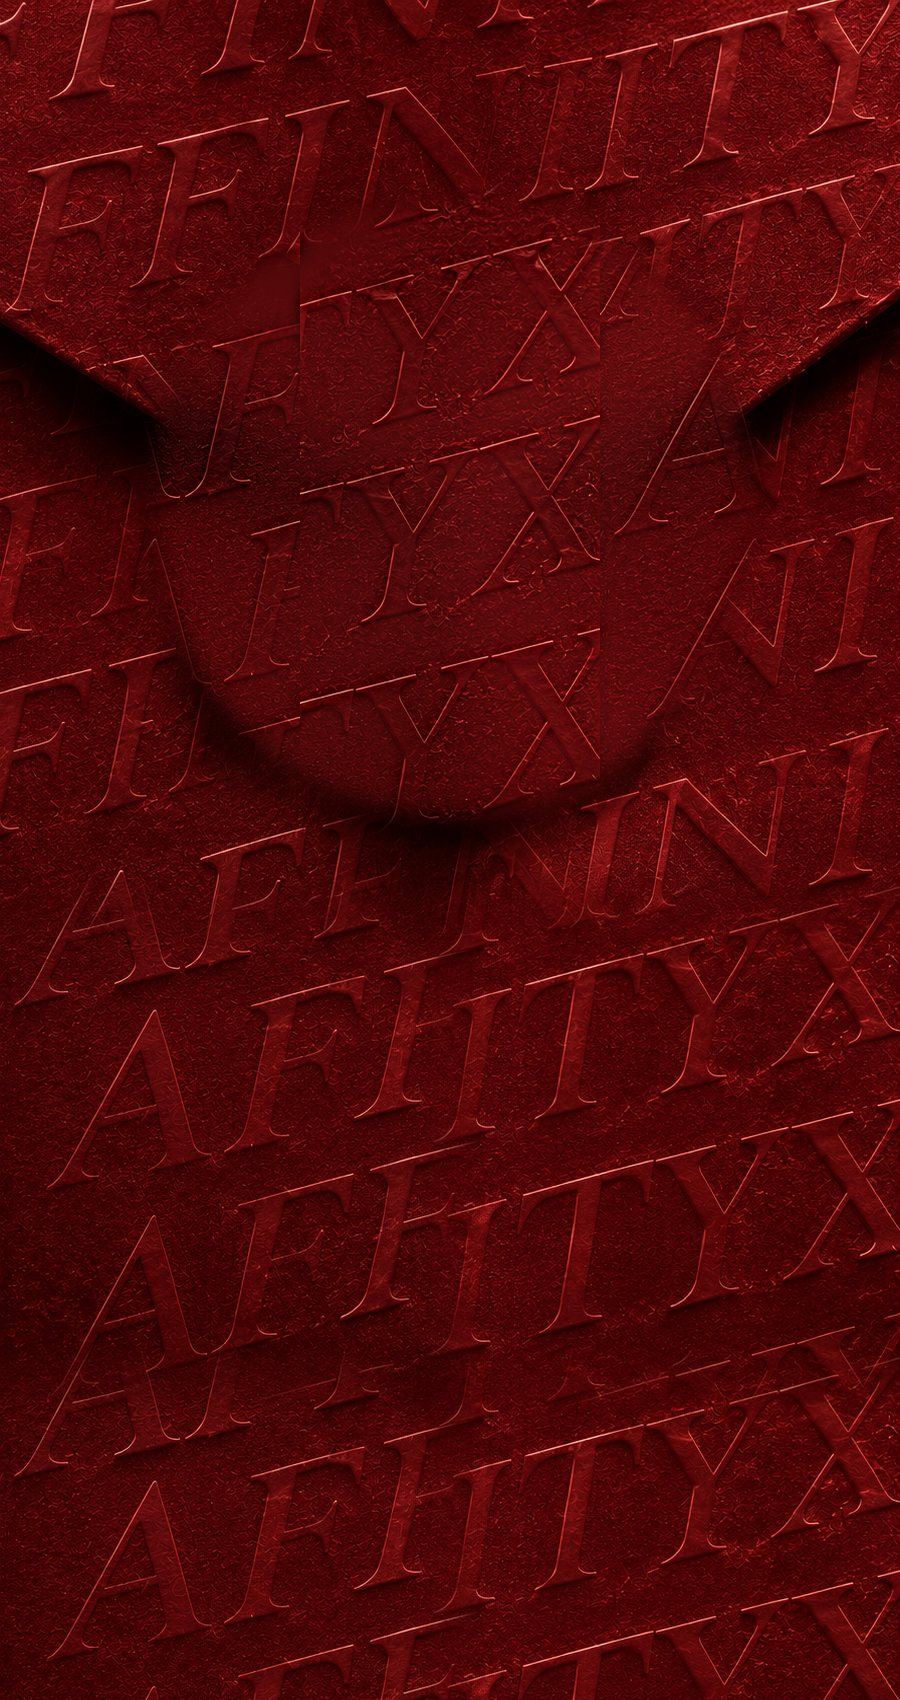
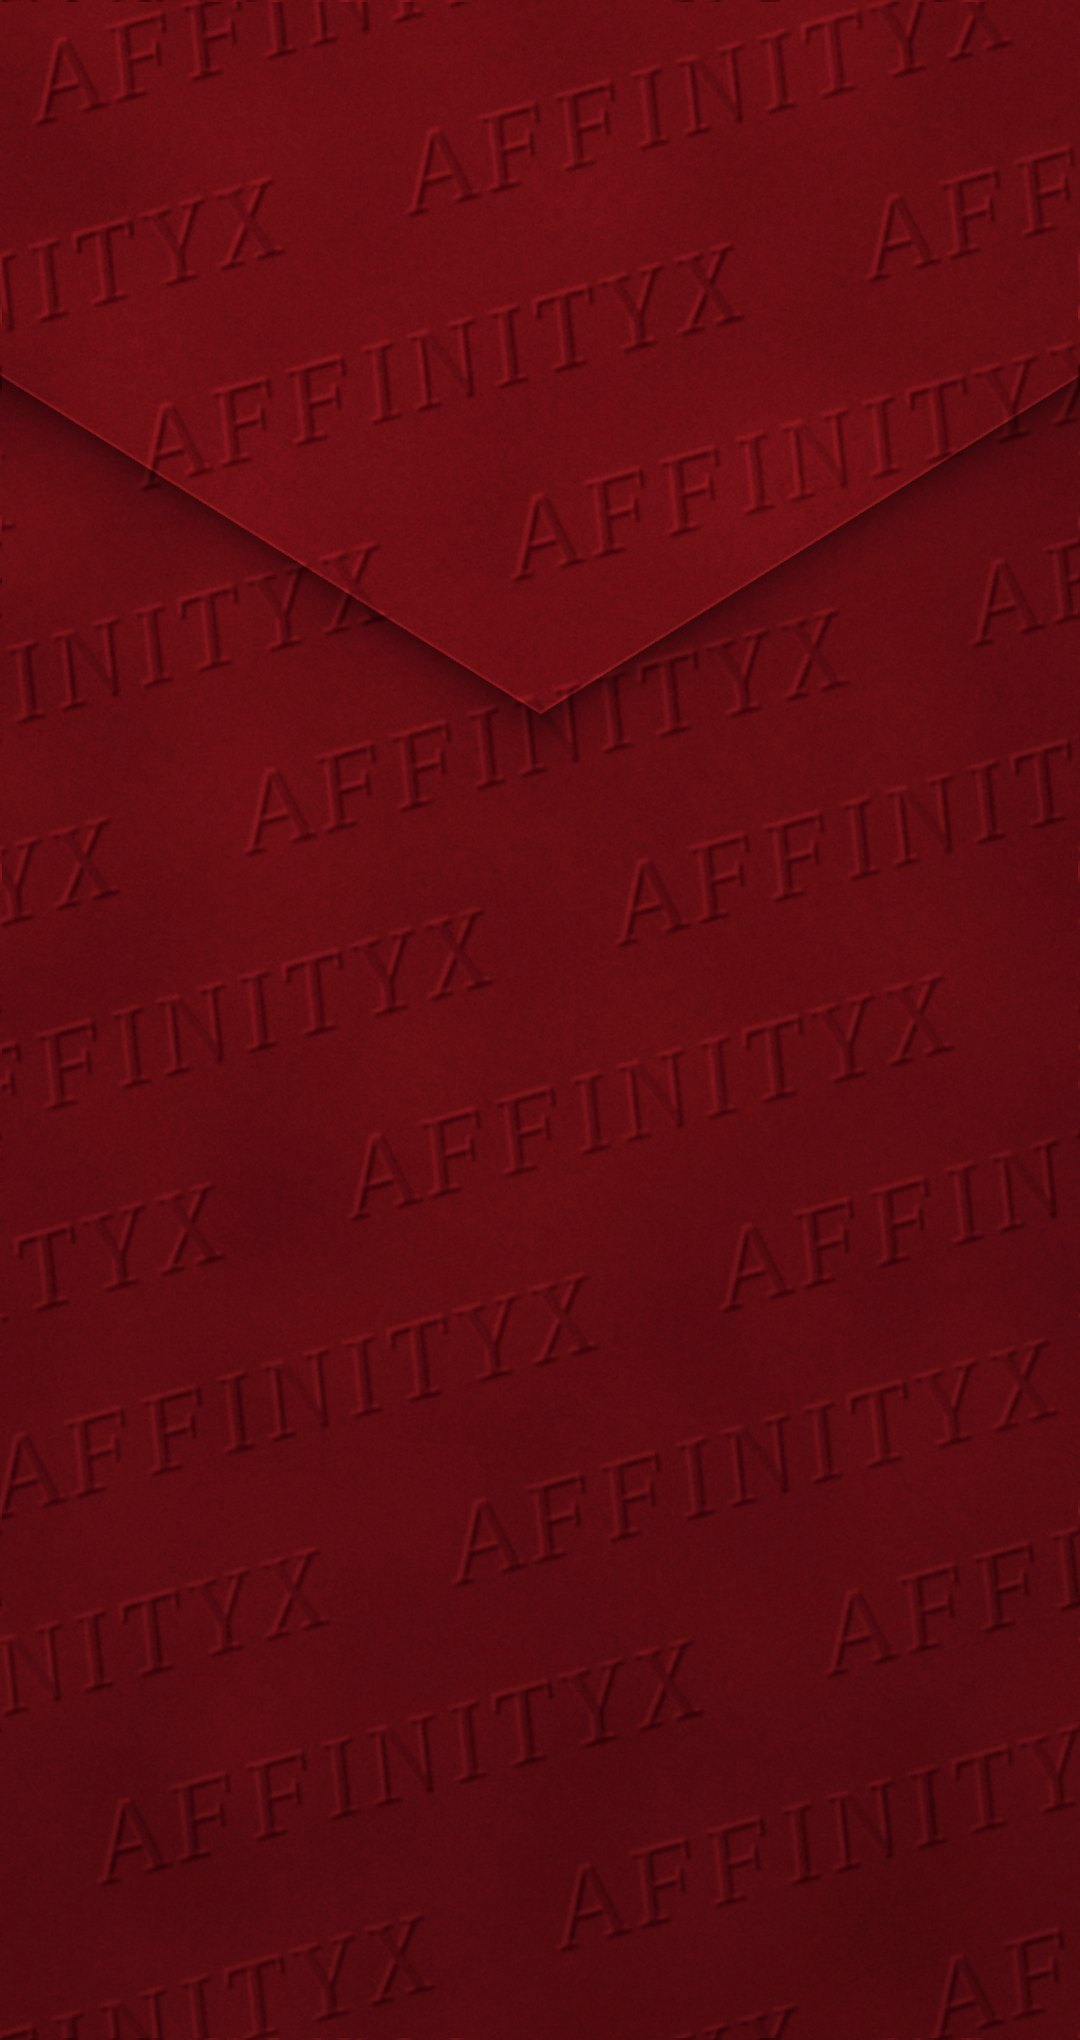
GOAT invite: smaller matte wax seal, neater envelope pattern, opening sound
Claude-Session: https://claude.ai/code/session_01N5pocwK2h9CPQ4y82uA8dz

diff --git a/public/invite/affinityx-goat/index.html b/public/invite/affinityx-goat/index.html
@@ -214,13 +214,13 @@ ol.steps li.key{color:var(--gold-hi)}
 .envx-card.glow::after{opacity:1}
 .envx-card img{backface-visibility:hidden}
 .opener.gone{display:none}
-.envx{position:absolute;left:50%;top:0;width:max(100vw,52.94dvh);aspect-ratio:900/1700;transform:translateX(-50%);will-change:transform}
+.envx{position:absolute;left:50%;top:0;width:max(100vw,52.94dvh);aspect-ratio:1080/2040;transform:translateX(-50%);will-change:transform}
 .envx-body,.envx-flap{position:absolute;inset:0;background:url(env-portrait.jpg) center/100% 100% no-repeat}
-.envx-body{clip-path:polygon(0 18.39%,54.67% 35.65%,100% 16.72%,100% 100%,0 100%);will-change:transform,opacity}
-.envx-pocket{position:absolute;inset:0;clip-path:polygon(0 0,0 18.39%,54.67% 35.65%,100% 16.72%,100% 0);background:linear-gradient(180deg,#14040a,#2a0811);transition:opacity .9s}
-.envx-flap{clip-path:polygon(0 0,0 18.39%,54.67% 35.65%,100% 16.72%,100% 0);transform-origin:50% 0;will-change:transform;backface-visibility:hidden}
-.envx-seal{position:absolute;left:21.33%;top:12.93%;width:58.11%;height:33.54%;transform-origin:50% 0;will-change:transform,opacity}
-.envx-seal img{display:block;width:100%;height:100%;filter:drop-shadow(0 10px 14px rgba(0,0,0,.5))}
+.envx-body{clip-path:polygon(0 18.4%,50% 35%,100% 18.4%,100% 100%,0 100%);will-change:transform,opacity}
+.envx-pocket{position:absolute;inset:0;clip-path:polygon(0 0,0 18.4%,50% 35%,100% 18.4%,100% 0);background:linear-gradient(180deg,#14040a,#2a0811);transition:opacity .9s}
+.envx-flap{clip-path:polygon(0 0,0 18.4%,50% 35%,100% 18.4%,100% 0);transform-origin:50% 0;will-change:transform;backface-visibility:hidden}
+.envx-seal{position:absolute;left:30%;top:22.45%;width:40%;height:23.09%;transform-origin:50% 0;will-change:transform,opacity}
+.envx-seal img{display:block;width:100%;height:100%;filter:drop-shadow(0 1px 1px rgba(0,0,0,.6)) drop-shadow(0 4px 6px rgba(0,0,0,.4))}
 .envx-seal::after{content:"";position:absolute;inset:-12%;border-radius:50%;background:radial-gradient(circle,rgba(255,205,150,.55),rgba(255,180,110,0) 62%);opacity:0;pointer-events:none;mix-blend-mode:screen;transition:opacity .6s ease}
 .envx-seal.lit::after{opacity:1}
 
@@ -228,7 +228,7 @@ ol.steps li.key{color:var(--gold-hi)}
   -webkit-mask:url(wax-seal.webp) center/100% 100% no-repeat;mask:url(wax-seal.webp) center/100% 100% no-repeat}
 .envx-seal.shine i{animation:sealShine .8s cubic-bezier(.4,0,.2,1) forwards}
 @keyframes sealShine{to{background-position:-50% 0}}
-.envx-seal.idle{animation:sealBreath 2.6s ease-in-out infinite}
+
 @keyframes sealBreath{0%,100%{transform:scale(1)}50%{transform:scale(1.025)}}
 #dust{position:absolute;inset:0;width:100%;height:100%;pointer-events:none;z-index:2}
 .env-copy{position:absolute;left:0;right:0;bottom:calc(env(safe-area-inset-bottom) + 12dvh);z-index:3;text-align:center;transition:opacity .5s,transform .5s;pointer-events:none}
@@ -567,8 +567,20 @@ $('#ics').onclick=e=>{e.preventDefault();const ics=['BEGIN:VCALENDAR','VERSION:2
  const wait=ms=>new Promise(r=>setTimeout(r,ms));
  const anim=(el,kf,o)=>el.animate(kf,Object.assign({fill:'forwards',easing:'cubic-bezier(.65,0,.35,1)'},o)).finished.catch(()=>{});
  const finish=()=>{op.classList.add('gone');document.body.classList.add('opened');if(!pages[0].classList.contains('active')){void pages[0].offsetWidth;pages[0].classList.add('active')}};
+
+ // soft opening sound (synthesised, starts on the tap so iPhone allows it)
+ const chime=()=>{try{const A=window.AudioContext||window.webkitAudioContext;if(!A)return;const c=new A();const t=c.currentTime;const out=c.createGain();out.gain.value=.55;out.connect(c.destination);
+  const noise=(dur)=>{const b=c.createBuffer(1,c.sampleRate*dur,c.sampleRate),d=b.getChannelData(0);for(let i=0;i<d.length;i++)d[i]=Math.random()*2-1;const s=c.createBufferSource();s.buffer=b;return s};
+  // 1. wax seal lifting: soft muted snap
+  {const s=noise(.12),f=c.createBiquadFilter(),g=c.createGain();f.type='bandpass';f.frequency.value=1400;f.Q.value=.9;g.gain.setValueAtTime(.0001,t+.42);g.gain.exponentialRampToValueAtTime(.5,t+.43);g.gain.exponentialRampToValueAtTime(.0001,t+.52);s.connect(f).connect(g).connect(out);s.start(t+.42);}
+  // 2. paper flap: gentle swoosh
+  {const s=noise(1.2),f=c.createBiquadFilter(),g=c.createGain();f.type='bandpass';f.Q.value=.7;f.frequency.setValueAtTime(600,t+.55);f.frequency.exponentialRampToValueAtTime(2600,t+1.4);g.gain.setValueAtTime(.0001,t+.55);g.gain.exponentialRampToValueAtTime(.16,t+.85);g.gain.exponentialRampToValueAtTime(.0001,t+1.6);s.connect(f).connect(g).connect(out);s.start(t+.55);}
+  // 3. warm bell chord as the card rises
+  [[523.25,0],[659.25,.09],[783.99,.18],[1046.5,.3]].forEach(([fr,dl])=>{const o=c.createOscillator(),o2=c.createOscillator(),g=c.createGain();o.type='sine';o2.type='sine';o.frequency.value=fr;o2.frequency.value=fr*2.01;const st=t+1.2+dl;
+   g.gain.setValueAtTime(.0001,st);g.gain.exponentialRampToValueAtTime(.12,st+.02);g.gain.exponentialRampToValueAtTime(.0001,st+2.6);const g2=c.createGain();g2.gain.value=.25;o.connect(g);o2.connect(g2).connect(g);g.connect(out);o.start(st);o2.start(st);o.stop(st+2.7);o2.stop(st+2.7)});
+  setTimeout(()=>c.close&&c.close(),5000)}catch(e){}};
  async function play(){
-  if(!ready||started)return;started=true;op.classList.add('go');seal.classList.remove('idle');
+  if(!ready||started)return;started=true;op.classList.add('go');chime();seal.classList.remove('idle');
   if(reduce){await anim(op,[{opacity:1},{opacity:0}],{duration:500});return finish()}
   const safety=setTimeout(finish,11000);
   const card=$('#envCard');
@@ -597,7 +609,7 @@ $('#ics').onclick=e=>{e.preventDefault();const ics=['BEGIN:VCALENDAR','VERSION:2
  }
  op.addEventListener('click',play);op.addEventListener('keydown',e=>{if(e.key==='Enter'||e.key===' ')play()});
  const srcs=['env-portrait.jpg','wax-seal.webp','invite-card.jpg','goat-kv.jpg','logo-gold.png'];
- const done=()=>{if(ready)return;ready=true;op.classList.remove('loading');seal.classList.add('idle');if(location.hash==='#open'){started=true;finish()}};
+ const done=()=>{if(ready)return;ready=true;op.classList.remove('loading');if(location.hash==='#open'){started=true;finish()}};
  Promise.all(srcs.map(s=>new Promise(r=>{const i=new Image();i.onload=i.onerror=r;i.src=s}))).then(done);setTimeout(done,5000);
 })();
 
